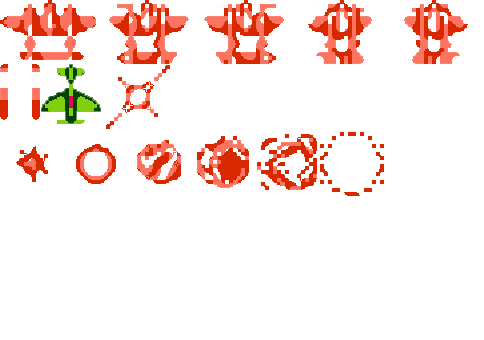
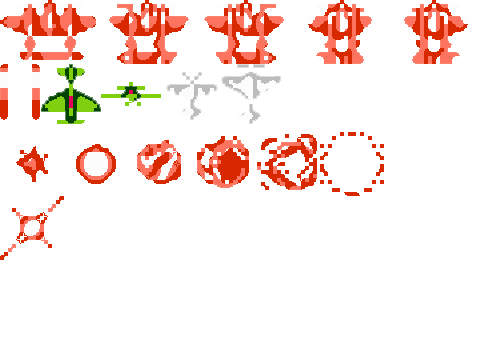
敌机序列1号完成

diff --git a/js/class.js b/js/class.js
@@ -48,7 +48,7 @@ onDrag = function(spitit){
 		GRbit.ArcadeCrash.resetDraw(aircraft);
 	});
 }
-//主角飞机类
+//飞机类
 var Aircraft = function(Pro){
 	GRbit.ImgSpitit.call(this,Pro);
 	this.HP = Pro.HP;
@@ -56,6 +56,8 @@ var Aircraft = function(Pro){
 	this.Z = Pro.Z;
 	//子弹类型
 	this.shellType = 1;
+	//x轴方向的移动速度
+	this.vy = Pro.vy;
 }
 //通用子弹类
 var Shell = function(Pro){
@@ -120,8 +122,8 @@ var Flame = function(x,y){
 	Pro.height = 40;
 	//加载图片
 	Pro.imgObj = coverageImage;
-	Pro.px = 106;
-	Pro.py = 65;
+	Pro.px = 0;
+	Pro.py = 196;
 	Pro.pwidth = 64;
 	Pro.pheight = 64;
 	//当前存在的帧数
@@ -171,11 +173,11 @@ var Enemy = function(){
 		var enemy = new Aircraft({
 			x:i*70,
 			y:i*-50,
-			Z:0,
-			HP:3,
+			vy:3,
+			HP:1,
 			imgObj:coverageImage,
 			width:50,
-			height:50,
+			height:40,
 			px:41,
 			py:64,
 			pwidth:60,
@@ -186,11 +188,24 @@ var Enemy = function(){
 					this.remove();
 					Explode(this.x,this.y);
 				}
-				//移动出边界
-				if(this.x>stage.height+this.height){
+				//移动并回向移动
+				if(this.y>stage.height*3/5){
+					this.px = 101;
+					this.vy = -1;
+				}
+				if(this.vy == -1&&GRbit.$roll%15==0){
+					this.px = 161;
+					this.vy = -2;
+				}
+				if(this.vy == -2 &&GRbit.$roll%15==0){
+					this.px = 221;
+					this.vy = -3;
+				}
+				//走出页面销毁
+				if(this.x<0-this.height){
 					this.remove();
 				}
-				this.y+=3;
+				this.y += this.vy;
 			}
 		})
 		GRbit.spititList.push(enemy);

diff --git a/js/main.js b/js/main.js
@@ -8,30 +8,30 @@ var config = {
 var stage = new GRbit.Stage({
 	width:config.canvasWidth,
 	height:config.canvasHeight,
-//			scaleX:document.body.offsetWidth/config.canvasWidth,
-//			scaleY:document.body.offsetHeight/config.canvasHeight,
+	scaleX:document.body.offsetWidth/config.canvasWidth,
+	scaleY:document.body.offsetHeight/config.canvasHeight,
 });
 //创建敌机
-var enemy = new Aircraft({
-	x:100,
-	y:100,
-	Z:0,
-	HP:10,
-	imgObj:coverageImage,
-	width:50,
-	height:50,
-	px:41,
-	py:64,
-	pwidth:60,
-	pheight:60,
-	onUpdata:function(){
-		//死亡
-		if(this.HP<0){
-			this.remove();
-			Explode(this.x,this.y);
-		}
-	}
-})
+//var enemy = new Aircraft({
+//	x:100,
+//	y:100,
+//	Z:0,
+//	HP:10,
+//	imgObj:coverageImage,
+//	width:50,
+//	height:50,
+//	px:41,
+//	py:64,
+//	pwidth:60,
+//	pheight:60,
+//	onUpdata:function(){
+//		//死亡
+//		if(this.HP<0){
+//			this.remove();
+//			Explode(this.x,this.y);
+//		}
+//	}
+//})
 //创建一个我方飞机
 var aircraft = new Aircraft({
 	x:stage.width/2,
@@ -81,12 +81,12 @@ GRbit.spititList.push(aircraft);
 //创建一个街机碰撞
 GRbit.ArcadeCrash.addCrash(aircraft,"zj");
 
-GRbit.spititList.push(enemy);
-GRbit.ArcadeCrash.addCrash(enemy,"zj3",{
-	"zj":function(){
-		return 1;
-	}
-});
+//GRbit.spititList.push(enemy);
+//GRbit.ArcadeCrash.addCrash(enemy,"zj3",{
+//	"zj":function(){
+//		return 1;
+//	}
+//});
 
 //启动碰撞映射
 //GRbit.ArcadeCrash.crachMapStart()
